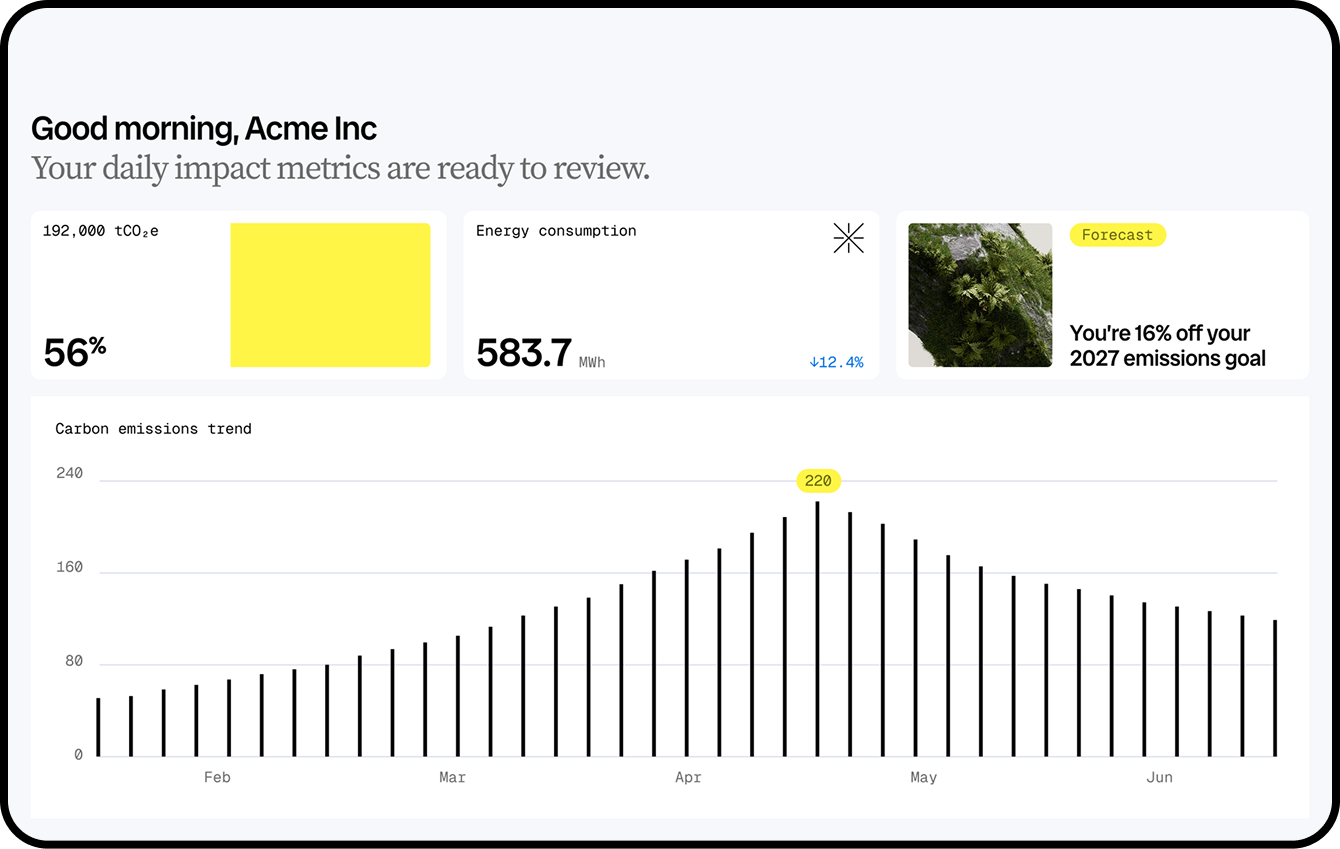
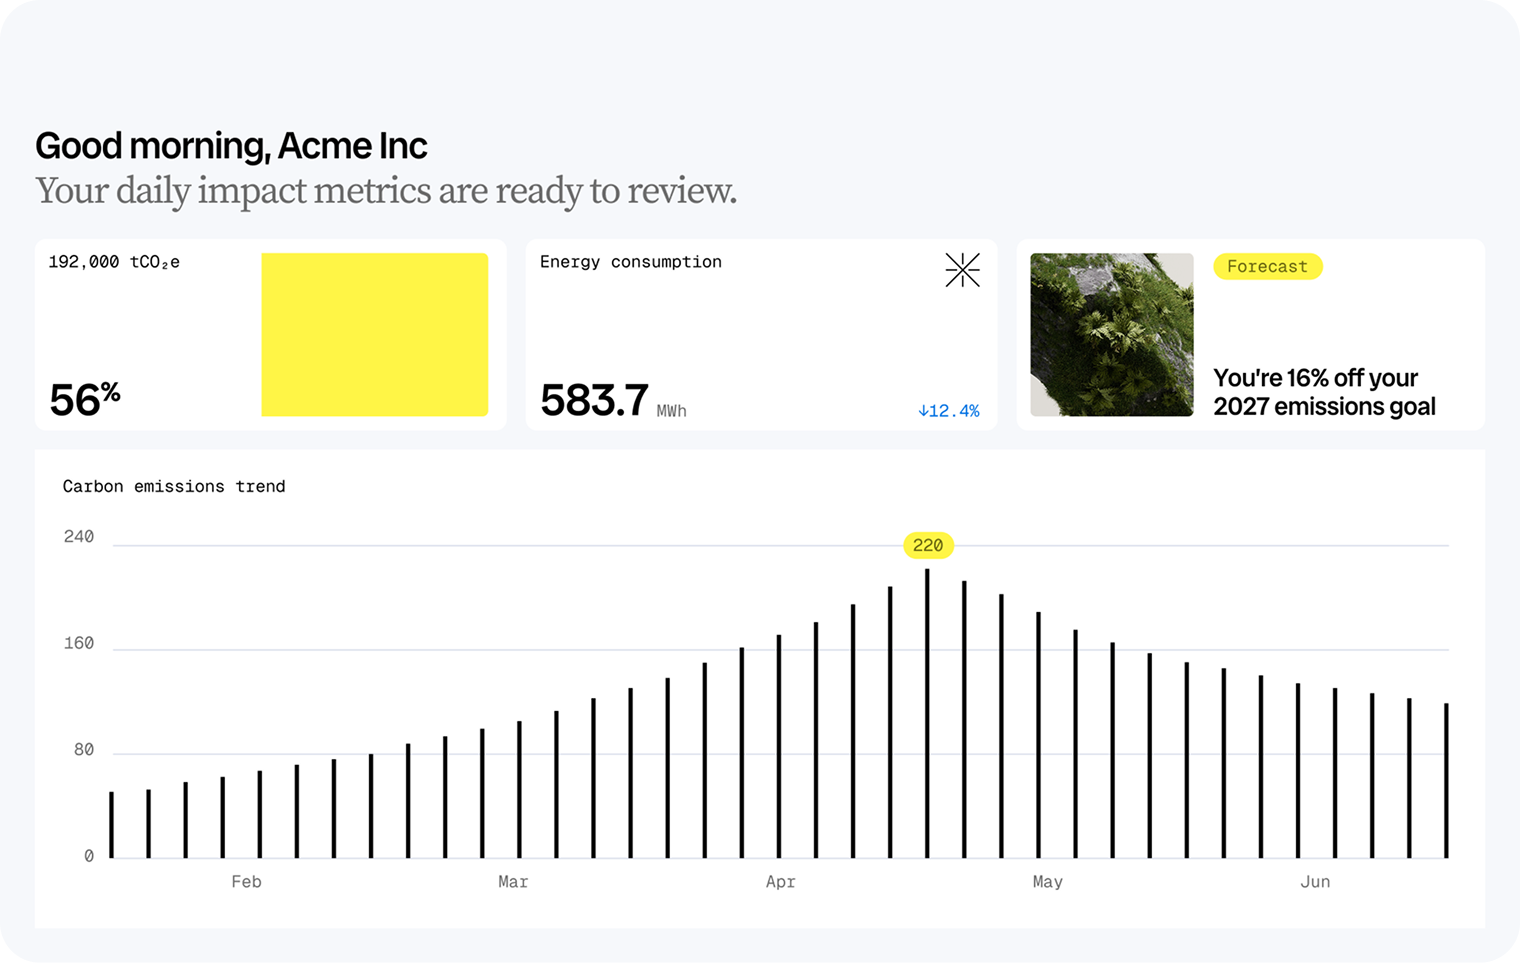
feat: optimize images

diff --git a/components/AnimatedSection.tsx b/components/AnimatedSection.tsx
@@ -43,17 +43,19 @@ const AnimatedSection: FC = () => {
   return (
     <section className="mx-auto flex w-full max-w-7xl flex-col gap-4 px-5 py-10 md:py-20 xl:py-30">
       <div className="flex flex-col gap-8 md:flex-row md:gap-4">
-        <Image
-          ref={imgRef}
-          src={"/Elliot Williams.png"}
-          alt="Stylized blue duotone portrait of a person facing the camera with arms crossed"
-          width={1488}
-          height={1702}
-          className="invisible w-full"
-        />
+        <figure className="w-full flex-1">
+          <Image
+            ref={imgRef}
+            src={"/Elliot Williams.png"}
+            alt="Stylized blue duotone portrait of a person facing the camera with arms crossed"
+            width={1488}
+            height={1702}
+            className="invisible w-full"
+          />
+        </figure>
         <div
           ref={containerRef}
-          className="invisible flex flex-col gap-6 md:justify-center md:gap-10 md:px-10 xl:gap-14 xl:px-26.25"
+          className="invisible flex flex-1 flex-col gap-6 md:justify-center md:gap-10 md:px-10 xl:gap-14 xl:px-26.25"
         >
           <span className="text-theme-200 text-5xl font-extrabold md:text-8xl">
             &quot;

diff --git a/components/AnimatedAboutSection.tsx b/components/AnimatedAboutSection.tsx
@@ -35,14 +35,16 @@ const AnimatedAboutSection: FC = () => {
         ref={articleRef}
         className="bg-theme-300 invisible flex flex-col gap-6 rounded-3xl p-5 md:flex-row md:gap-10"
       >
-        <Image
-          src={"/Image-1.png"}
-          alt="Group of colleagues greeting each other in a stylized blue duotone treatment"
-          width={1992}
-          height={1120}
-          className="w-full"
-        />
-        <div className="flex flex-col gap-6 md:justify-center">
+        <figure className="w-full flex-1">
+          <Image
+            src={"/Image-1.png"}
+            alt="Group of colleagues greeting each other in a stylized blue duotone treatment"
+            width={1992}
+            height={1120}
+            className="w-full"
+          />
+        </figure>
+        <div className="flex flex-1 flex-col gap-6 md:justify-center">
           <div className="flex flex-col gap-3 md:gap-4">
             <h4 className="font-radio-canada-big text-[18px] font-medium -tracking-[0.36px] md:text-[20px] md:-tracking-[0.4px]">
               Why Acme Inc chose Aetherfield

diff --git a/app/journal/_components/Header.tsx b/app/journal/_components/Header.tsx
@@ -28,14 +28,16 @@ const Header: FC = () => {
 
   return (
     <header className="mx-auto w-full max-w-7xl px-5">
-      <Image
-        ref={imgRef}
-        src={"/journal-hero.png"}
-        width={3040}
-        height={1177}
-        alt="Aetherfield Journal stamp graphic with the words tech, earth, and data around a diamond frame"
-        className="invisible w-full"
-      />
+      <figure>
+        <Image
+          ref={imgRef}
+          src={"/journal-hero.png"}
+          width={1520}
+          height={589}
+          alt="Aetherfield Journal stamp graphic with the words tech, earth, and data around a diamond frame"
+          className="invisible"
+        />
+      </figure>
     </header>
   );
 };

diff --git a/components/Hero.tsx b/components/Hero.tsx
@@ -58,7 +58,7 @@ const Hero: FC = () => {
       </div>
       <figure
         ref={figureRef}
-        className="invisible relative top-20 md:top-45.25 xl:top-57.25"
+        className="invisible relative top-20 overflow-hidden rounded-4xl border-2 border-black md:top-45.25 xl:top-57.25"
       >
         <Image
           src={"/Hero-image.png"}
